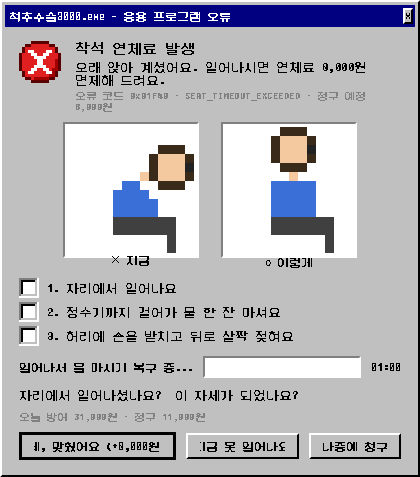
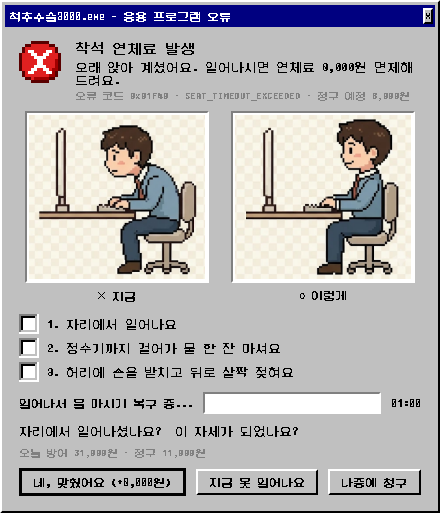
Use the 척추수술 pixel characters as default posture images
- Crop female/male bad (forward head) and good (upright) figures into assets/img/default
- Image lookup: per-exercise image → default character → placeholder sprite
- Alternate characters per alert, or fix with POSTURE_CHARACTER=f|m
- Larger image panels, refreshed screenshots

diff --git a/src/posture_alert/ui/popup.py b/src/posture_alert/ui/popup.py
@@ -19,7 +19,7 @@ from .retro import (BAD_POSE, CHECK_ICON, CHECK_PAL, CHECKBOX_OFF, CHECKBOX_ON,
                     CHECKBOX_PAL, DARK, ERROR_ICON, ERROR_PAL, GOOD_POSE, NAVY,
                     POSE_PAL, WARNING, WARNING_PAL, retro_font, sprite)
 
-IMG_SIZE = 128
+IMG_W, IMG_H = 176, 164  # 그림 칸 크기 (기본 캐릭터 그림 비율 400:372)
 EXE = f"{APP_NAME}.exe"
 ERROR_CODES = {
     "posture": "TURTLE_NECK_OVERFLOW",
@@ -149,12 +149,20 @@ def _button(text: str, primary: bool = False) -> QPushButton:
     return b
 
 
-def pose_image(assets: Path, exercise_id: str, which: str) -> QPixmap:
-    """assets/img/{id}_{good|bad}.png 가 있으면 쓰고, 없으면 임시 픽셀 그림."""
-    f = assets / "img" / f"{exercise_id}_{which}.png"
-    if f.exists():
-        return QPixmap(str(f)).scaled(IMG_SIZE, IMG_SIZE, Qt.AspectRatioMode.KeepAspectRatio,
-                                      Qt.TransformationMode.FastTransformation)
+CHARACTERS = ("f", "m")  # assets/img/default/{f|m}_{bad|good}.png
+
+
+def pose_image(assets: Path, exercise_id: str, which: str, character: str = "f") -> QPixmap:
+    """그림 고르는 순서:
+    1) assets/img/{동작id}_{good|bad}.png   (동작별 전용 그림)
+    2) assets/img/default/{f|m}_{good|bad}.png (기본 캐릭터: 거북목 ✕ / 바른 자세 ○)
+    3) 임시 픽셀 막대 인형
+    """
+    for f in (assets / "img" / f"{exercise_id}_{which}.png",
+              assets / "img" / "default" / f"{character}_{which}.png"):
+        if f.exists():
+            return QPixmap(str(f)).scaled(IMG_W, IMG_H, Qt.AspectRatioMode.KeepAspectRatio,
+                                          Qt.TransformationMode.SmoothTransformation)
     return sprite(GOOD_POSE if which == "good" else BAD_POSE, POSE_PAL, 9)
 
 
@@ -165,11 +173,11 @@ def image_panel(pm: QPixmap, caption: str) -> QWidget:
     v.setSpacing(4)
     frame = QFrame()
     frame.setObjectName("sunken")
-    frame.setFixedSize(IMG_SIZE + 8, IMG_SIZE + 8)
+    frame.setFixedSize(IMG_W + 8, IMG_H + 8)
     img = QLabel(frame)
     img.setPixmap(pm)
     img.setAlignment(Qt.AlignmentFlag.AlignCenter)
-    img.setGeometry(4, 4, IMG_SIZE, IMG_SIZE)
+    img.setGeometry(4, 4, IMG_W, IMG_H)
     cap = _label(caption, 12, bold=True)
     cap.setAlignment(Qt.AlignmentFlag.AlignCenter)
     v.addWidget(frame)
@@ -183,10 +191,11 @@ class GuideCard(_RetroWindow):
     want_alternative = Signal()   # 일어나기 알림에서 "지금 못 일어나요"
 
     def __init__(self, msg: Message, ex: Exercise, kind: str, assets: Path,
-                 receipt: Receipt | None = None, can_defer_stand: bool = False):
+                 receipt: Receipt | None = None, can_defer_stand: bool = False,
+                 character: str = "f"):
         super().__init__(f"{EXE} - 응용 프로그램 오류")
         self.ex = ex
-        self.setFixedWidth(420)
+        self.setFixedWidth(440)
         self.title_bar.closed.connect(lambda: self._answer("skip"))
 
         price = price_of(kind)
@@ -197,9 +206,9 @@ class GuideCard(_RetroWindow):
 
         imgs = QHBoxLayout()
         imgs.addStretch()
-        imgs.addWidget(image_panel(pose_image(assets, ex.id, "bad"), "✕ 지금"))
+        imgs.addWidget(image_panel(pose_image(assets, ex.id, "bad", character), "✕ 지금"))
         imgs.addSpacing(12)
-        imgs.addWidget(image_panel(pose_image(assets, ex.id, "good"), "○ 이렇게"))
+        imgs.addWidget(image_panel(pose_image(assets, ex.id, "good", character), "○ 이렇게"))
         imgs.addStretch()
         self.body.addLayout(imgs)
 

diff --git a/src/posture_alert/main.py b/src/posture_alert/main.py
@@ -21,7 +21,7 @@ from .engine.content import (APP_NAME, APP_SUBTITLE, ASSETS, load_exercises,
 from .engine.scheduler import Kind, Scheduler
 from .platform import get_monitor
 from .storage.repo import Repo
-from .ui.popup import GhostError, GuideCard, LightToast, ReceiptWindow
+from .ui.popup import CHARACTERS, GhostError, GuideCard, LightToast, ReceiptWindow
 from .ui.retro import ERROR_ICON, ERROR_PAL, STYLESHEET, load_fonts, sprite
 
 
@@ -55,6 +55,9 @@ class App:
         self.receipt_win = None
         self.ignored_streak = 0   # 연속으로 무시한 횟수 → 에러창이 그만큼 쌓인다
         self._seq = 0
+        # 기본 캐릭터: POSTURE_CHARACTER=f|m 으로 고정, 없으면 알림마다 번갈아
+        self.character_pref = os.environ.get("POSTURE_CHARACTER")
+        self._char_i = 0
 
         self.tray = QSystemTrayIcon(QIcon(sprite(ERROR_ICON, ERROR_PAL, 2)))
         self.tray.setToolTip(f"{APP_NAME} - {APP_SUBTITLE}")
@@ -81,6 +84,13 @@ class App:
         if kind and self.card is None:  # 이미 떠 있으면 겹쳐 띄우지 않음
             self.show(kind)
 
+    @property
+    def character(self) -> str:
+        if self.character_pref in CHARACTERS:
+            return self.character_pref
+        self._char_i += 1
+        return CHARACTERS[self._char_i % len(CHARACTERS)]
+
     def receipt(self):
         return build_receipt(self.repo.events_today())
 
@@ -94,7 +104,8 @@ class App:
             card = LightToast(msg, ex)
         else:
             card = GuideCard(msg, ex, kind.value, self.assets, receipt=self.receipt(),
-                             can_defer_stand=(kind is Kind.STAND and not alt))
+                             can_defer_stand=(kind is Kind.STAND and not alt),
+                             character=self.character)
         # POST: 알림을 띄우는 순간 기록 생성 (result='shown', completed=0)
         event_id = self.repo.create_event(kind.value, ex.id)
         if kind is not Kind.EYE:

diff --git a/docs/IMAGE_PROMPTS.md b/docs/IMAGE_PROMPTS.md
@@ -8,6 +8,8 @@ ChatGPT(이미지 생성), Gemini, Midjourney 어디서든 쓸 수 있게 영어
 
 ## 1. 앱에 넣는 방법
 
+> **현재 기본 그림**: `assets/img/default/{f|m}_{bad|good}.png` — "기억하자 척추수술 3000만원" 그림에서 잘라낸 여성(f)·남성(m) 캐릭터의 거북목(✕)/바른 자세(○). 동작별 전용 그림이 없으면 이 그림이 나오고, 알림마다 두 캐릭터가 번갈아 나옵니다. (`POSTURE_CHARACTER=f` 또는 `m`으로 고정 가능)
+
 - 파일 위치: `src/posture_alert/assets/img/`
 - 파일 이름: `{동작 id}_bad.png` (✕ 지금), `{동작 id}_good.png` (○ 이렇게)
 - 파일이 있으면 앱이 자동으로 그 그림을 쓰고, 없으면 지금의 임시 막대 인형을 보여줘요.
